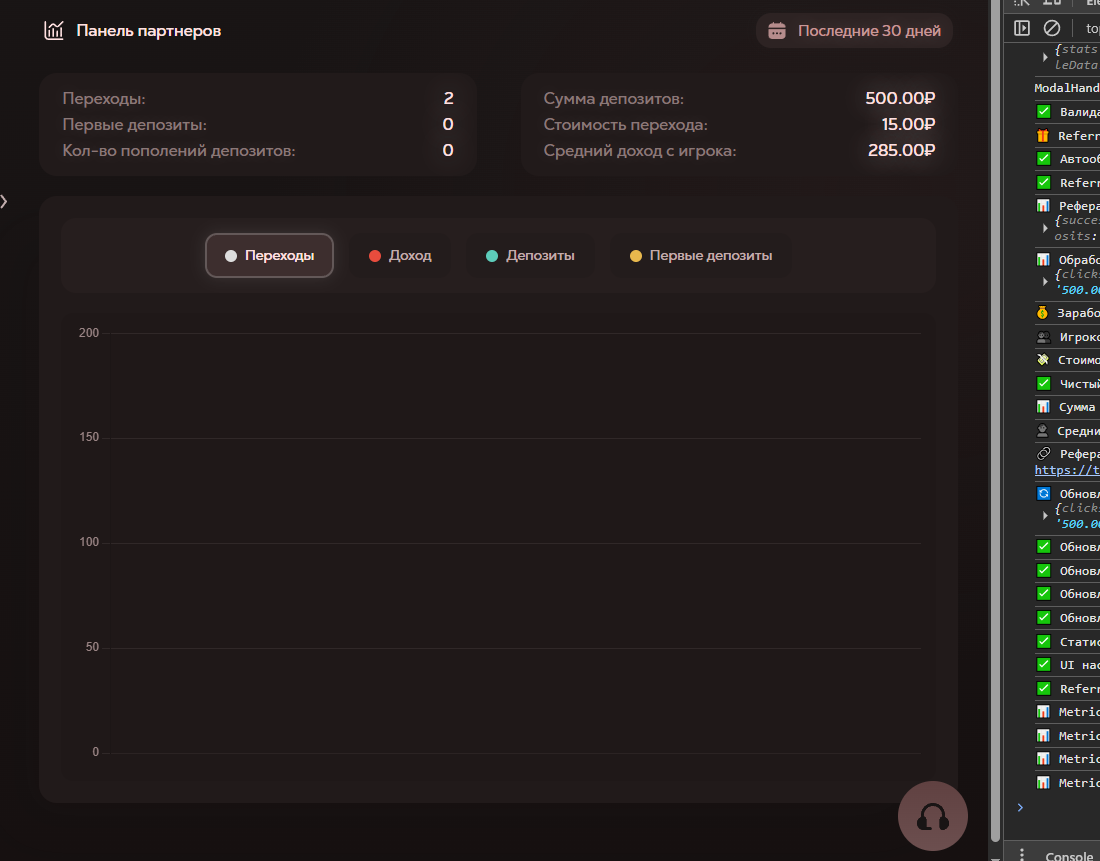
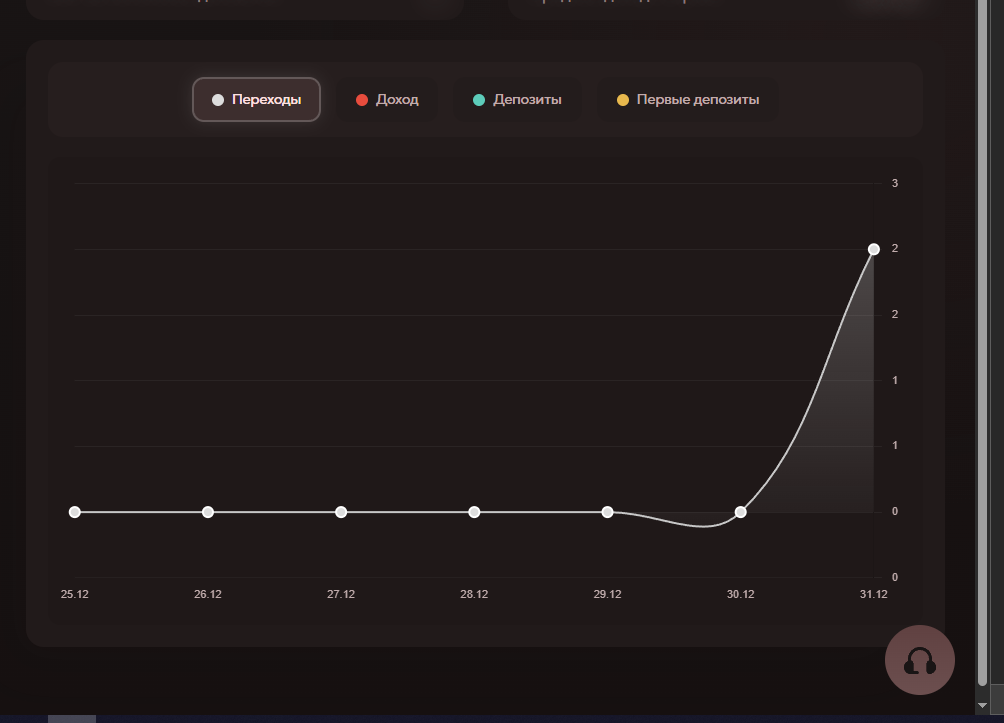
fix: Chart - show points always (pointRadius: 3)

diff --git a/site/dashboard/chart.js b/site/dashboard/chart.js
@@ -66,8 +66,8 @@
                     borderWidth: 2,
                     fill: true,
                     tension: 0.4,
-                    pointRadius: 0, // Без точек на линии (только при hover)
-                    pointHoverRadius: 5, // Точка появляется при наведении
+                    pointRadius: 3, // Маленькие точки всегда видны
+                    pointHoverRadius: 6, // Немного больше при наведении
                     pointBackgroundColor: metrics[currentMetric].color,
                     pointBorderColor: '#fff',
                     pointBorderWidth: 2,

diff --git a/site/dashboard/index.html b/site/dashboard/index.html
@@ -21,7 +21,7 @@
     <script src="../js/admin.js?v=8" defer></script>
     <script src="js/script.js?v=9" defer></script>
     <script src="https://cdn.jsdelivr.net/npm/chart.js@4.4.1/dist/chart.umd.min.js"></script>
-    <script src="chart.js?v=44"></script>
+    <script src="chart.js?v=45"></script>
     <script src="../modal-generator.js"></script>
     <script src="../modal-handler.js"></script>
 </head>

diff --git a/site/dashboard/styles.css b/site/dashboard/styles.css
@@ -107,7 +107,6 @@ a {
 .balance-amount {
     font-size: 18px;
     line-height: 15px;
-    margin-left: auto;
     margin-right: 3px;
     text-shadow: 0px 0px 25px rgba(255, 224, 224, 0.55);
     color: #FFE0E0;
